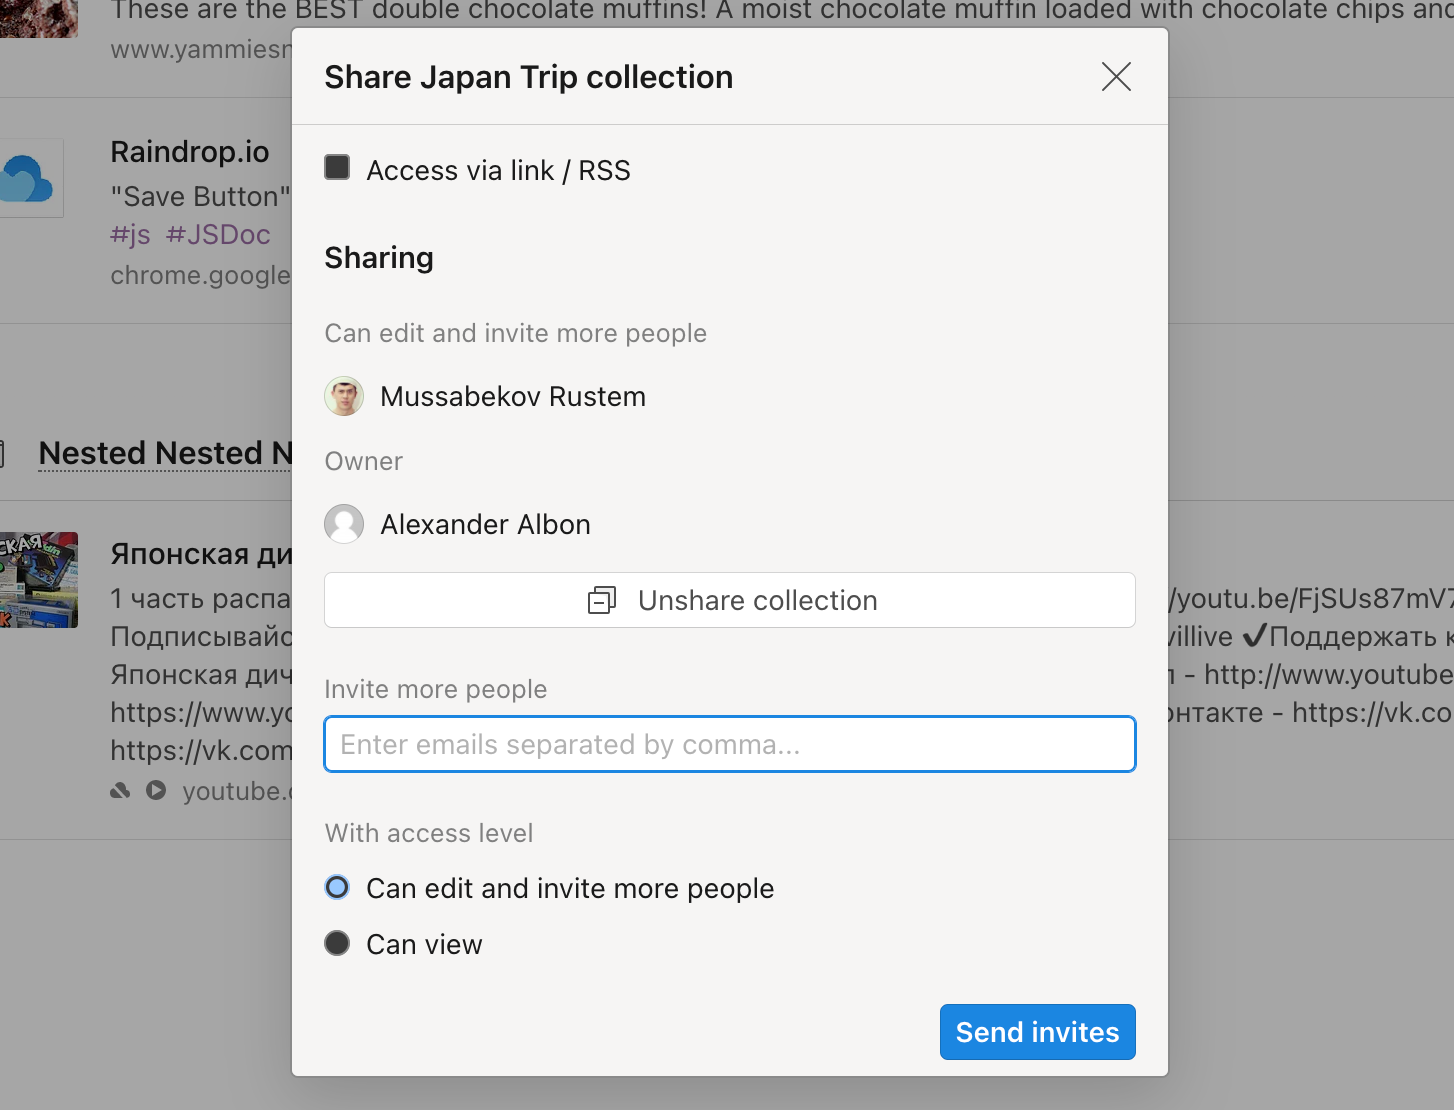
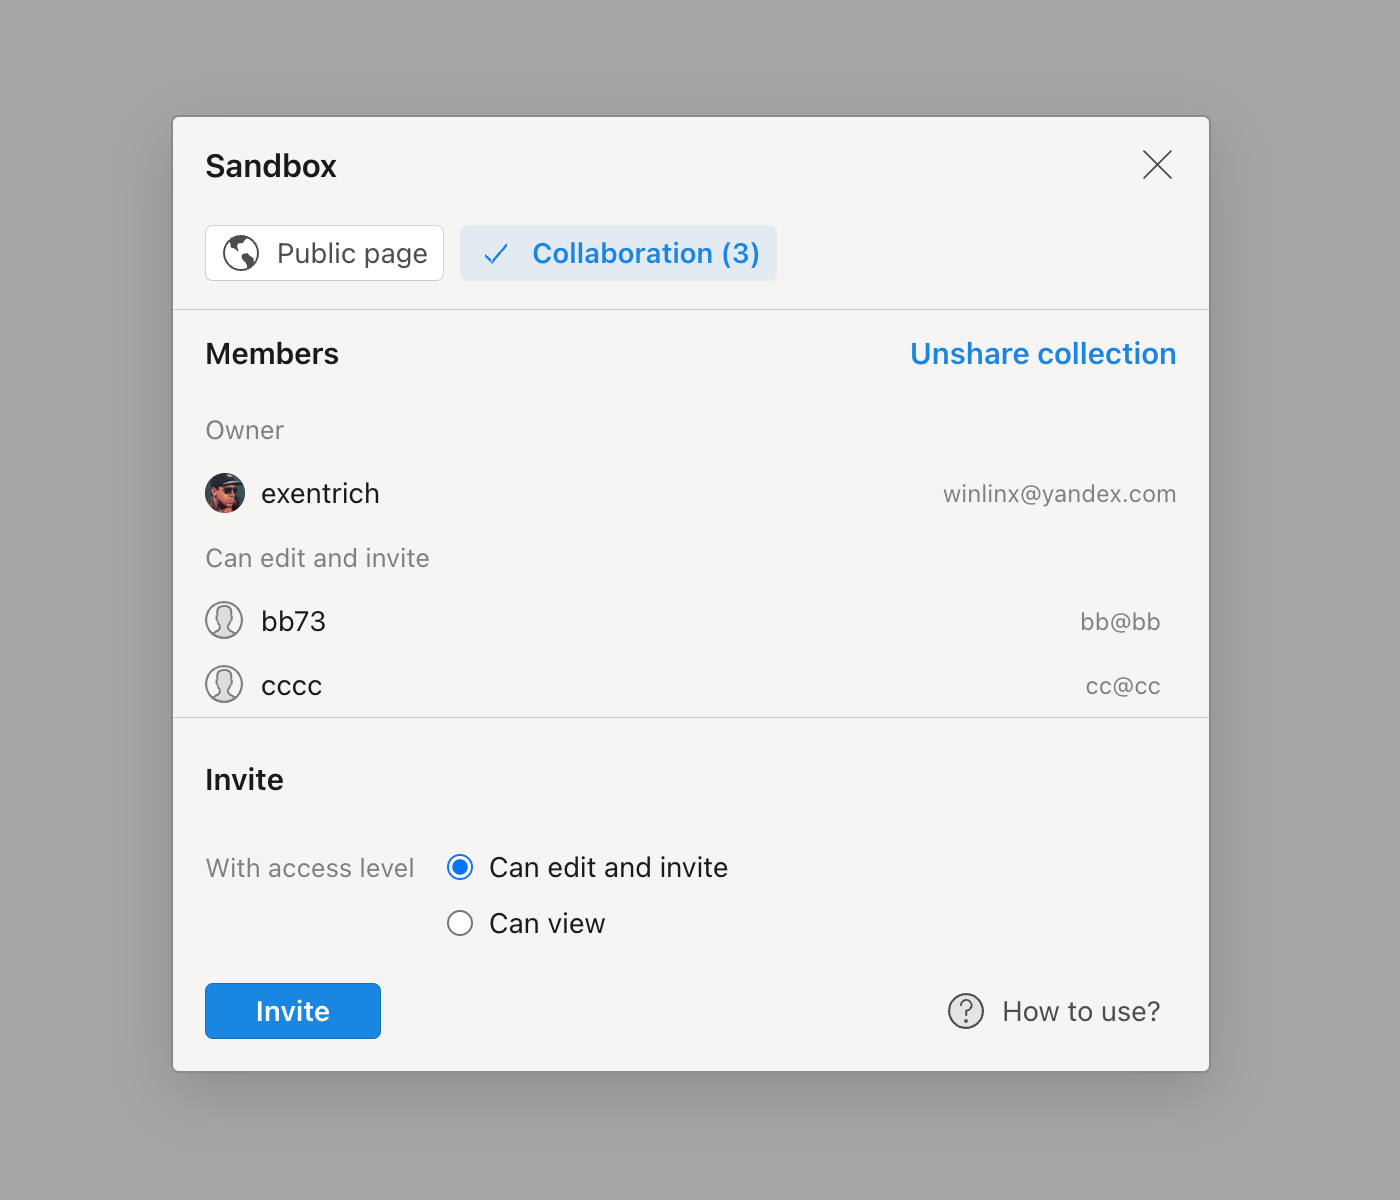
Actualize collaboration instructions

diff --git a/docs/using/collaboration/index.md b/docs/using/collaboration/index.md
@@ -13,17 +13,15 @@ Don’t want the person to be able to add / edit / delete items, but do want the
 
 ## Invite a person to your collection
 To invite someone to collaborate on your collection, open the collection, then click the `Share` in top right corner of the screen. 
-From here, you can manage existing collaborators or invite new ones.
+
+![](share.png)
+
+Then click `Collaboration` to manage existing collaborators or invite new ones.
 
 <p><img src={require('./invite.png').default} style={{maxHeight:555}} /></p>
 
-To invite a new collaborator, click `Invite more people` and then enter their email address.
+Click on `Invite` to generate a unique join link, which you can then share with a new collaborator.
 
-After you click a `Send invites` button, persons you added will receive an email notification:
-
-<p><img src={require('./email.png').default} style={{maxHeight:412}} /></p>
-
-They need to click on the link from the email, and after a while, the shared collection will be available on their account.
 
 ## Permissions
 By default, every Raindrop.io collection you create is private and only visible to you.
